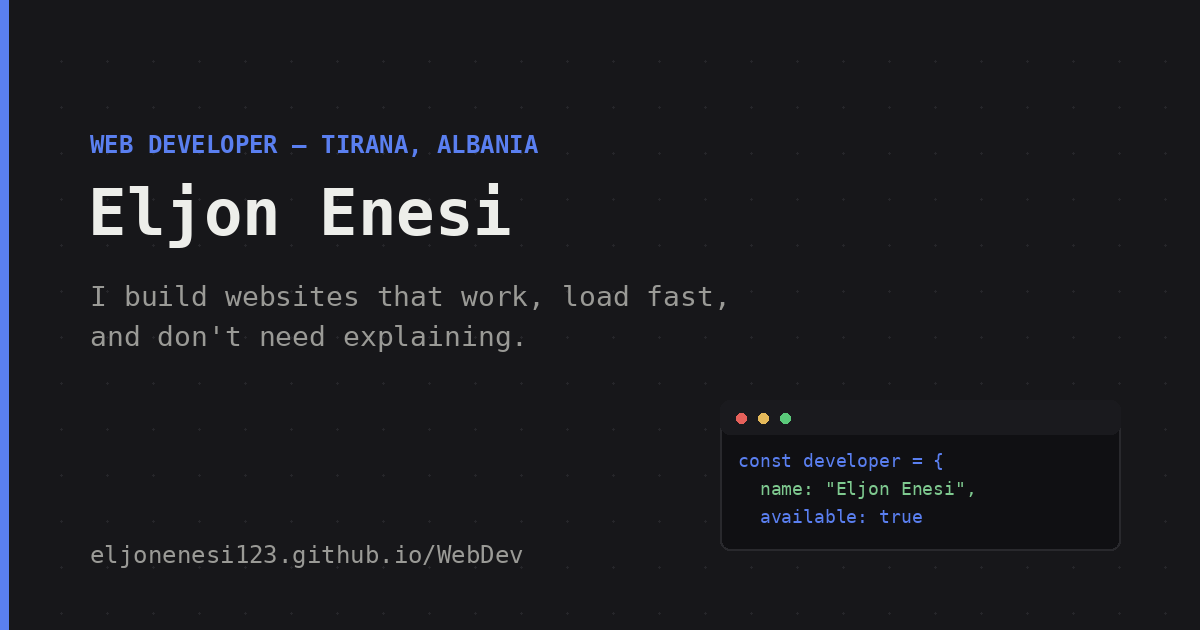
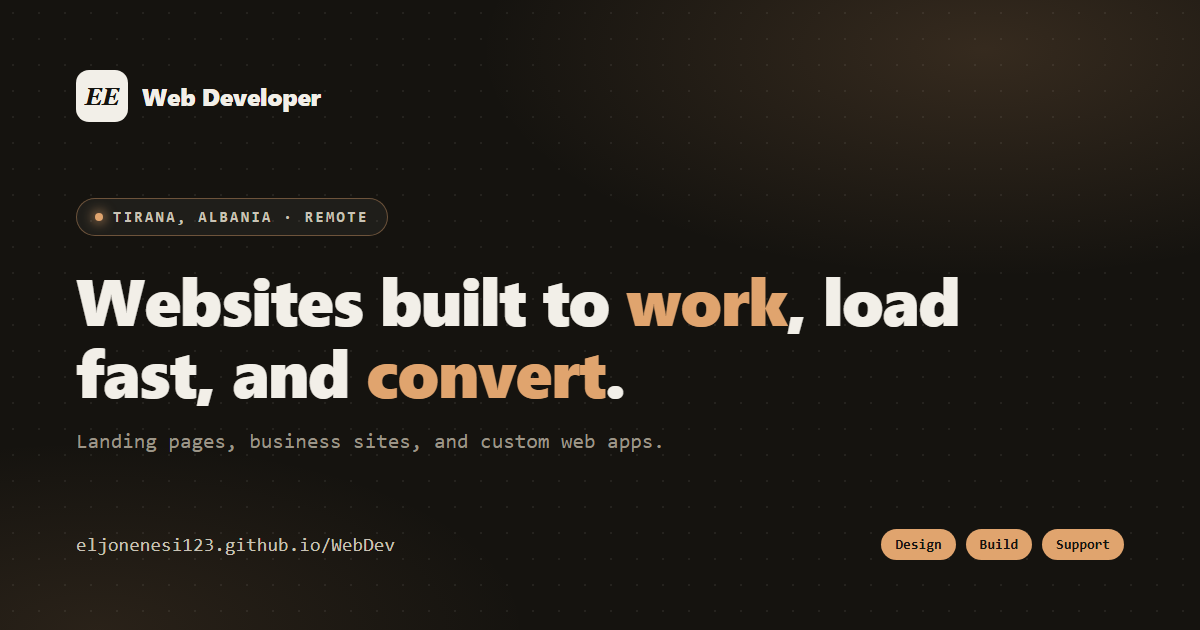
Redesign the link-share preview to match the site's actual dark theme
The og:image/twitter:image card was an old blue code-editor mockup that
no longer matched the site's dark cream-on-charcoal look, and it named
the owner directly. Replaced it with a card built from the site's real
palette (bg #15130F, accent #E0A46E, EE mark) and switched the OG/twitter
title, description, and <title> to role-based copy instead of a name.

diff --git a/index.html b/index.html
@@ -3,7 +3,7 @@
 <head>
 <meta charset="UTF-8">
 <meta name="viewport" content="width=device-width, initial-scale=1.0">
-<title>Eljon Enesi — Web Developer</title>
+<title>Web Developer — Websites Built to Work</title>
 <link rel="icon" type="image/x-icon" href="/WebDev/assets/favicon.ico">
 <link rel="icon" type="image/png" sizes="16x16" href="/WebDev/assets/favicon-16x16.png">
 <link rel="icon" type="image/png" sizes="32x32" href="/WebDev/assets/favicon-32x32.png">
@@ -30,19 +30,19 @@
   gtag('js', new Date());
   gtag('consent', 'default', { analytics_storage: 'denied' });
 </script>
-<meta name="description" content="Eljon Enesi builds websites and web apps. Available for freelance work.">
+<meta name="description" content="We build websites and web apps that work, load fast, and don't need explaining. Available for freelance work.">
 
 <meta property="og:type" content="website">
-<meta property="og:title" content="Eljon Enesi — Web Developer">
-<meta property="og:description" content="I build websites that work, load fast, and don't need explaining.">
+<meta property="og:title" content="Web Developer — Websites Built to Work">
+<meta property="og:description" content="Landing pages, business sites, and custom web apps that work, load fast, and convert.">
 <meta property="og:image" content="https://eljonenesi123.github.io/WebDev/assets/og-share-card.png">
 <meta property="og:image:width" content="1200">
 <meta property="og:image:height" content="630">
 <meta property="og:url" content="https://eljonenesi123.github.io/WebDev/">
 
 <meta name="twitter:card" content="summary_large_image">
-<meta name="twitter:title" content="Eljon Enesi — Web Developer">
-<meta name="twitter:description" content="I build websites that work, load fast, and don't need explaining.">
+<meta name="twitter:title" content="Web Developer — Websites Built to Work">
+<meta name="twitter:description" content="Landing pages, business sites, and custom web apps that work, load fast, and convert.">
 <meta name="twitter:image" content="https://eljonenesi123.github.io/WebDev/assets/og-share-card.png">
 <link rel="preconnect" href="https://fonts.googleapis.com">
 <link href="https://fonts.googleapis.com/css2?family=JetBrains+Mono:wght@400;500;600;700&family=Inter:wght@400;500;600;800&family=Fraunces:ital,wght@0,600;0,700;1,500;1,700&family=Architects+Daughter&family=Abril+Fatface&display=swap" rel="stylesheet">

diff --git a/react-app/index.html b/react-app/index.html
@@ -3,7 +3,7 @@
 <head>
 <meta charset="UTF-8">
 <meta name="viewport" content="width=device-width, initial-scale=1.0">
-<title>Eljon Enesi — Web Developer</title>
+<title>Web Developer — Websites Built to Work</title>
 <link rel="icon" type="image/x-icon" href="/assets/favicon.ico">
 <link rel="icon" type="image/png" sizes="16x16" href="/assets/favicon-16x16.png">
 <link rel="icon" type="image/png" sizes="32x32" href="/assets/favicon-32x32.png">
@@ -30,19 +30,19 @@
   gtag('js', new Date());
   gtag('consent', 'default', { analytics_storage: 'denied' });
 </script>
-<meta name="description" content="Eljon Enesi builds websites and web apps. Available for freelance work.">
+<meta name="description" content="We build websites and web apps that work, load fast, and don't need explaining. Available for freelance work.">
 
 <meta property="og:type" content="website">
-<meta property="og:title" content="Eljon Enesi — Web Developer">
-<meta property="og:description" content="I build websites that work, load fast, and don't need explaining.">
+<meta property="og:title" content="Web Developer — Websites Built to Work">
+<meta property="og:description" content="Landing pages, business sites, and custom web apps that work, load fast, and convert.">
 <meta property="og:image" content="https://eljonenesi123.github.io/WebDev/assets/og-share-card.png">
 <meta property="og:image:width" content="1200">
 <meta property="og:image:height" content="630">
 <meta property="og:url" content="https://eljonenesi123.github.io/WebDev/">
 
 <meta name="twitter:card" content="summary_large_image">
-<meta name="twitter:title" content="Eljon Enesi — Web Developer">
-<meta name="twitter:description" content="I build websites that work, load fast, and don't need explaining.">
+<meta name="twitter:title" content="Web Developer — Websites Built to Work">
+<meta name="twitter:description" content="Landing pages, business sites, and custom web apps that work, load fast, and convert.">
 <meta name="twitter:image" content="https://eljonenesi123.github.io/WebDev/assets/og-share-card.png">
 <link rel="preconnect" href="https://fonts.googleapis.com">
 <link href="https://fonts.googleapis.com/css2?family=JetBrains+Mono:wght@400;500;600;700&family=Inter:wght@400;500;600;800&family=Fraunces:ital,wght@0,600;0,700;1,500;1,700&family=Architects+Daughter&family=Abril+Fatface&display=swap" rel="stylesheet">
